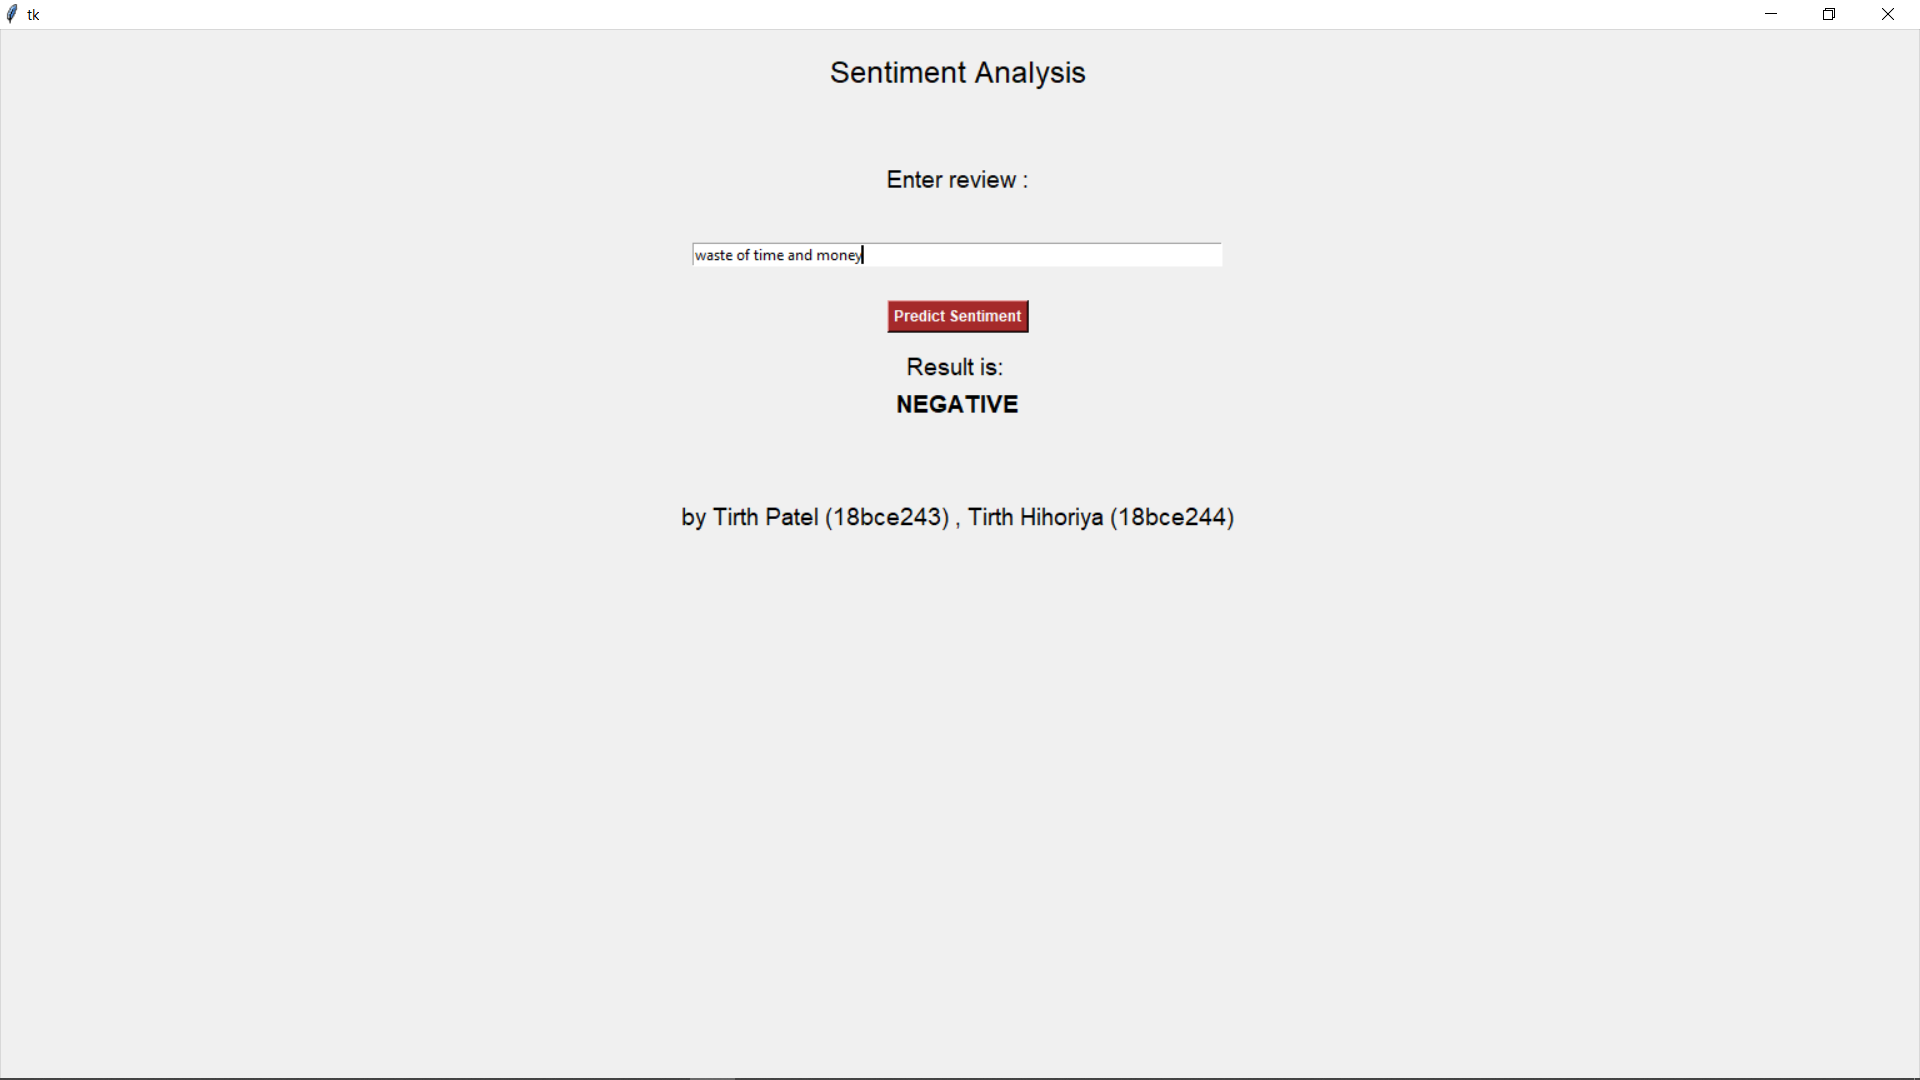
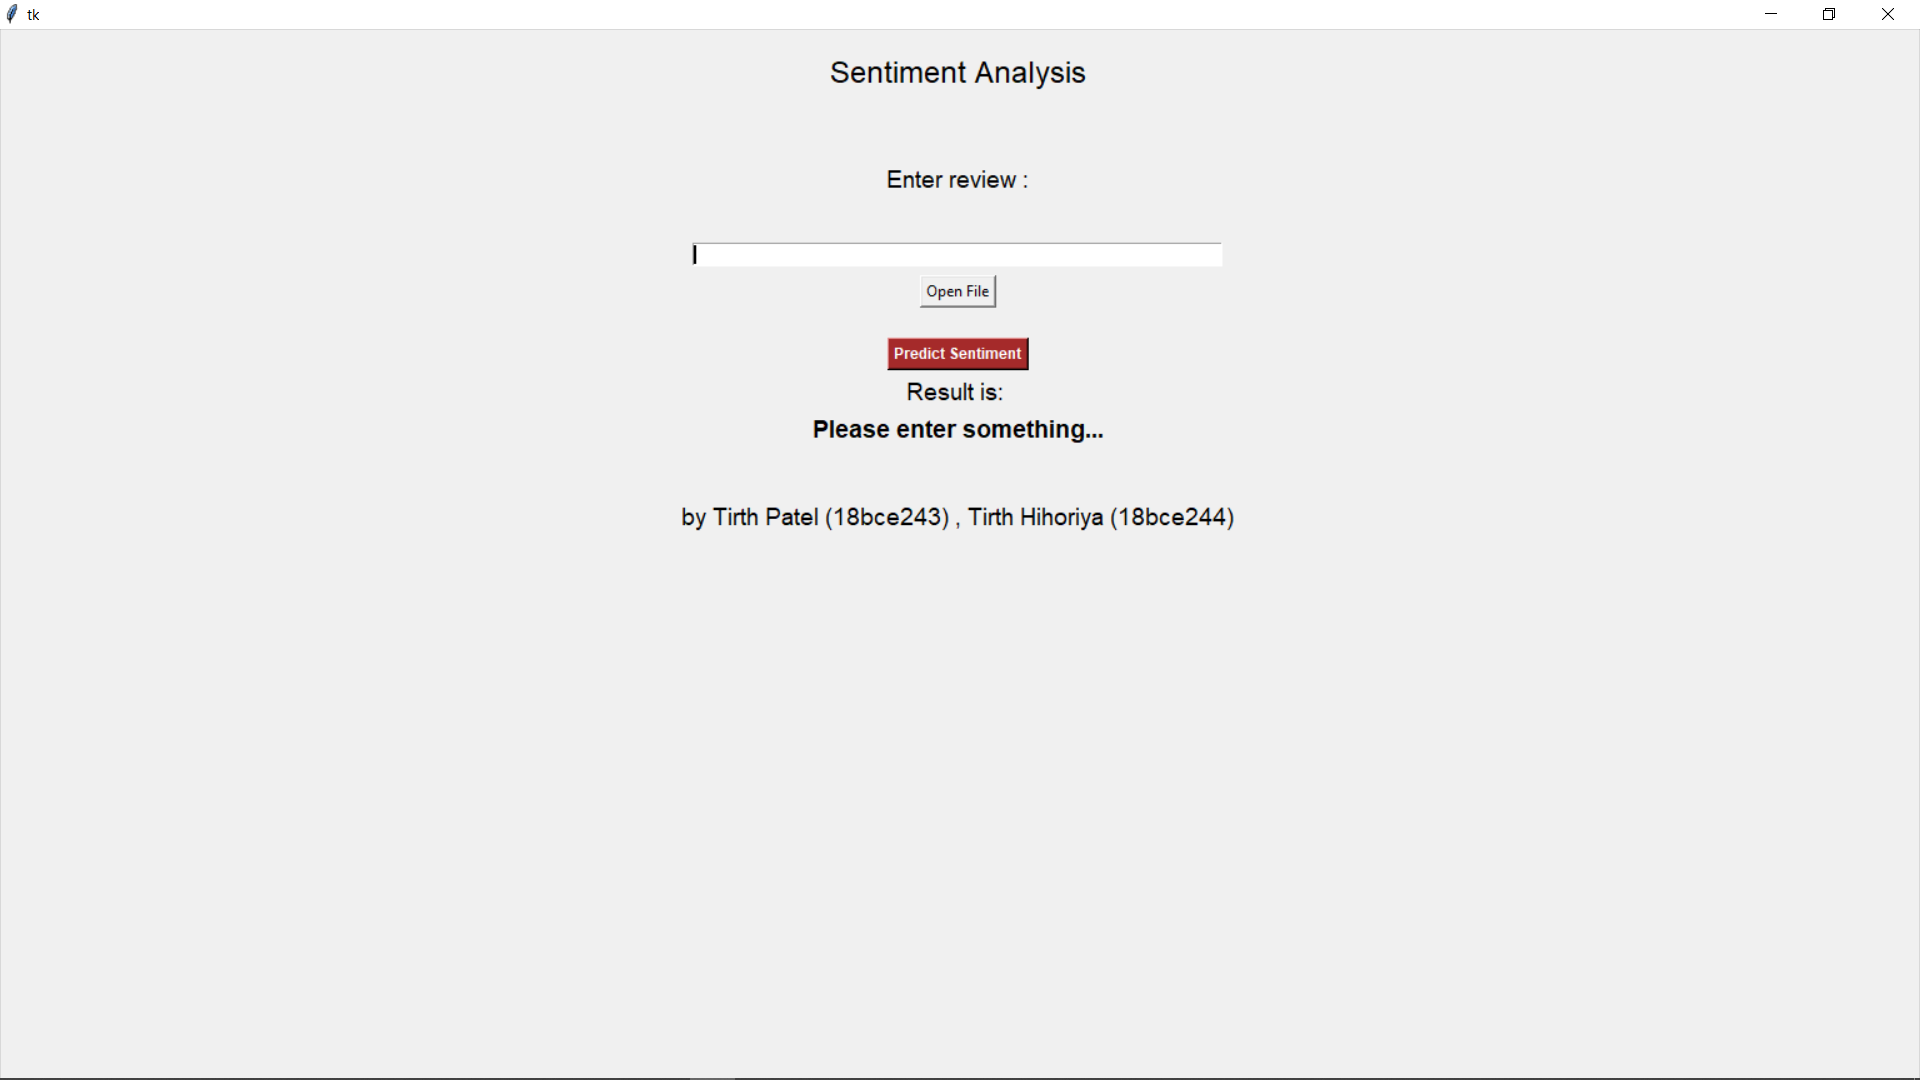
add readme description

Changed region(s): [[0.4062, 0.2444, 0.5625, 0.4278], [0.3438, 0.2139, 0.4688, 0.2444]]

diff --git a/README.md b/README.md
@@ -8,7 +8,6 @@ We have created a bidirectional LSTM model for sentiment analysis on IMDB datase
 
 ### Usage
 
-
 #### Linux
 
 ```shell
@@ -33,4 +32,13 @@ pip install -r requirements.txt
 python gui.py
 ```
 
+### Frameworks Used
 
+1. Tensorflow
+2. Tensorflow Datasets
+3. Tensorflow Hub
+4. Keras
+
+### GUI
+
+![gui](images/gui_1.png)
